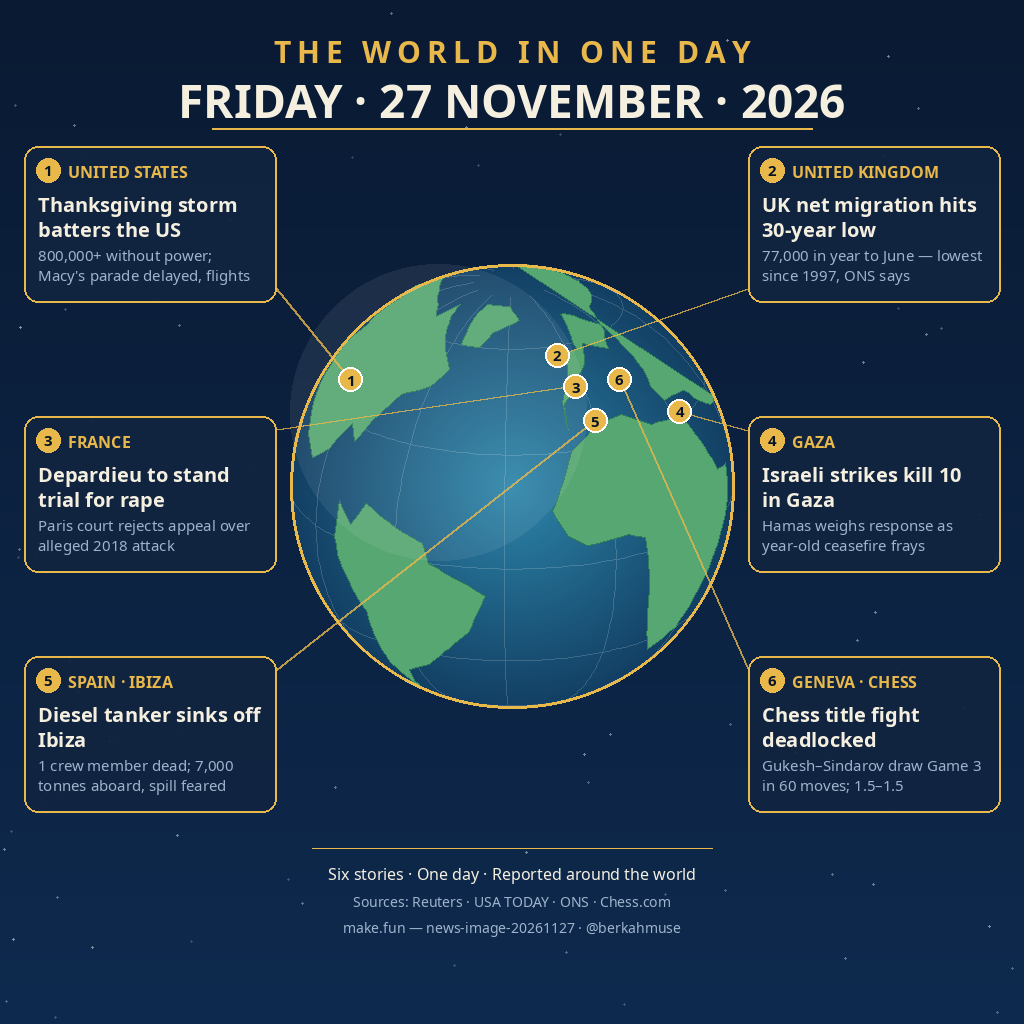
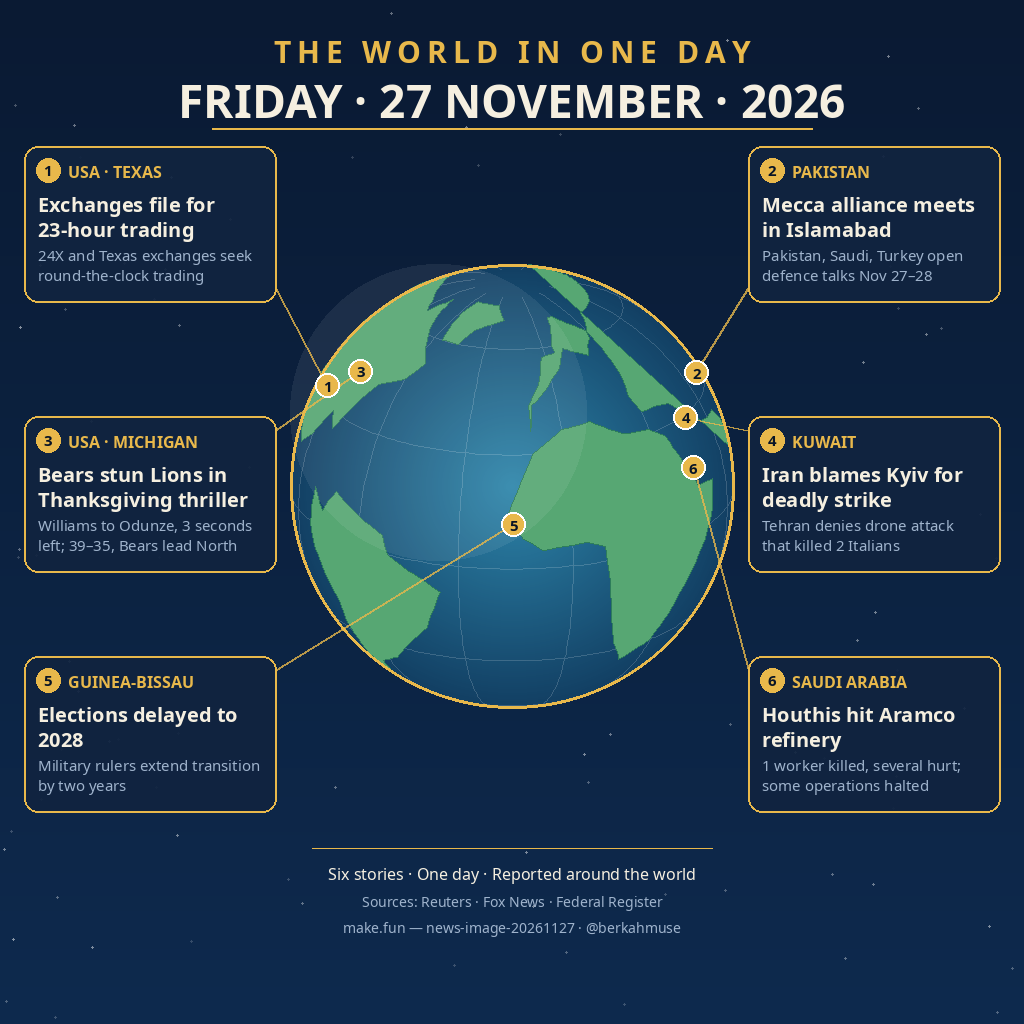
Rebuild with genuine 27 Nov stories; fix card truncation + LICENSE detection
v1 failed independent verification on story dates (all six stories
were 26 Nov news). v2 replaces all six with stories first reported
or happening on 27 Nov 2026 in at least one Asia-Pacific time zone
(UTC+7..+13) — see README timestamp table:
- 24X/TXSE 23-hour trading filings (Federal Register, 27 Nov 00:00 UTC)
- Mecca alliance meeting opens in Islamabad (27-28 Nov)
- Bears stun Lions 39-35, TD with 3 seconds left (ended ~16:00 ET
  26 Nov = 04:00 WIB 27 Nov)
- Iran blames Kyiv for Kuwait strike (Fox, ~23:55 UTC = 06:55 WIB)
- Guinea-Bissau delays elections to 2028 (Reuters 17:13 UTC
  = 00:13 WIB 27 Nov)
- Houthis hit Jazan refinery, 1 killed (ministry statement
  19:30 UTC = 02:30 WIB 27 Nov)
Globe recentered LON0 -28 -> -16 so Islamabad sits on the globe.
Body text may now wrap to 3 lines (v1 dropped 'grounded' on card 1).
LICENSE: dropped SPDX header line so GitHub detects MIT.
Anchor unchanged: drand round 34311782.

diff --git a/draw.py b/draw.py
@@ -49,32 +49,35 @@ F_FOOT = font(FONT_R, 16)
 F_SRC = font(FONT_R, 14)
 F_NUM = font(FONT_B, 15)
 
-# --- stories (verified 27 Nov 2026) -----------------------------------------
+# --- stories (verified 27 Nov 2026; see README for timestamps) --------------
+# Every story below was first reported, or happened, on 27 November 2026
+# in at least one Asia-Pacific time zone (UTC+7 to +13). Per-story
+# timestamps and time-zone conversions are documented in README.md.
 STORIES = [
-    dict(n=1, tag="UNITED STATES",
-         head="Thanksgiving storm batters the US",
-         body="800,000+ without power; Macy's parade delayed, flights grounded",
-         lon=-97, lat=39, card=(24, 146)),
-    dict(n=2, tag="UNITED KINGDOM",
-         head="UK net migration hits 30-year low",
-         body="77,000 in year to June \u2014 lowest since 1997, ONS says",
-         lon=-6, lat=57, card=(748, 146)),
-    dict(n=3, tag="FRANCE",
-         head="Depardieu to stand trial for rape",
-         body="Paris court rejects appeal over alleged 2018 attack",
-         lon=-3, lat=47, card=(24, 416)),
-    dict(n=4, tag="GAZA",
-         head="Israeli strikes kill 10 in Gaza",
-         body="Hamas weighs response as year-old ceasefire frays",
-         lon=34.5, lat=31.5, card=(748, 416)),
-    dict(n=5, tag="SPAIN \u00b7 IBIZA",
-         head="Diesel tanker sinks off Ibiza",
-         body="1 crew member dead; 7,000 tonnes aboard, spill feared",
-         lon=0, lat=37, card=(24, 656)),
-    dict(n=6, tag="GENEVA \u00b7 CHESS",
-         head="Chess title fight deadlocked",
-         body="Gukesh\u2013Sindarov draw Game 3 in 60 moves; 1.5\u20131.5",
-         lon=16, lat=46, card=(748, 656)),
+    dict(n=1, tag="USA · TEXAS",
+         head="Exchanges file for 23-hour trading",
+         body="24X and Texas exchanges seek round-the-clock trading",
+         lon=-96.8, lat=32.8, card=(24, 146)),
+    dict(n=2, tag="PAKISTAN",
+         head="Mecca alliance meets in Islamabad",
+         body="Pakistan, Saudi, Turkey open defence talks Nov 27\u201328",
+         lon=73.06, lat=33.68, card=(748, 146)),
+    dict(n=3, tag="USA · MICHIGAN",
+         head="Bears stun Lions in Thanksgiving thriller",
+         body="Williams to Odunze, 3 seconds left; 39\u201335, Bears lead North",
+         lon=-83.05, lat=42.33, card=(24, 416)),
+    dict(n=4, tag="KUWAIT",
+         head="Iran blames Kyiv for deadly strike",
+         body="Tehran denies drone attack that killed 2 Italians",
+         lon=47.98, lat=29.3, card=(748, 416)),
+    dict(n=5, tag="GUINEA-BISSAU",
+         head="Elections delayed to 2028",
+         body="Military rulers extend transition by two years",
+         lon=-15.6, lat=11.9, card=(24, 656)),
+    dict(n=6, tag="SAUDI ARABIA",
+         head="Houthis hit Aramco refinery",
+         body="1 worker killed, several hurt; some operations halted",
+         lon=42.5, lat=16.9, card=(748, 656)),
 ]
 
 # --- continent outlines (lon, lat), simplified -------------------------------
@@ -106,9 +109,10 @@ CONTINENTS = [
      (136, -12), (132, -12), (126, -14), (122, -17)],
 ]
 
-# --- orthographic projection, Atlantic centred ------------------------------
+# --- orthographic projection, Atlantic centred (rotated east so that
+# Islamabad, at the edge of the visible hemisphere, sits on the globe) ----
 CX, CY, R = 512, 486, 222
-LON0, LAT0 = math.radians(-28), math.radians(22)
+LON0, LAT0 = math.radians(-16), math.radians(22)
 SIN0, COS0 = math.sin(LAT0), math.cos(LAT0)
 
 
@@ -248,7 +252,10 @@ def main():
             d.text((x + 14, yy), ln, font=F_HEAD, fill=CREAM)
             yy += 25
         yy += 4
-        for ln in wrap(st["body"], F_BODY, 224)[:2]:
+        # Body may use up to 3 lines: a 2-line cap dropped words (card 1
+        # lost "grounded" in v1). 2-line heads + 3-line bodies still fit
+        # the 156 px card (last baseline y+138, text bottom ~y+153).
+        for ln in wrap(st["body"], F_BODY, 224)[:3]:
             d.text((x + 14, yy), ln, font=F_BODY, fill=MUTED)
             yy += 20
 
@@ -256,7 +263,7 @@ def main():
     d.line([(312, 848), (712, 848)], fill=GOLD, width=1)
     d.text((CX, 862), "Six stories \u00b7 One day \u00b7 Reported around the world",
            font=F_FOOT, fill=CREAM, anchor="ma")
-    d.text((CX, 892), "Sources: Reuters \u00b7 USA TODAY \u00b7 ONS \u00b7 Chess.com",
+    d.text((CX, 892), "Sources: Reuters \u00b7 Fox News \u00b7 Federal Register",
            font=F_SRC, fill=MUTED, anchor="ma")
     d.text((CX, 918), "make.fun \u2014 news-image-20261127 \u00b7 @berkahmuse",
            font=F_SRC, fill=MUTED, anchor="ma")

diff --git a/main.py b/main.py
@@ -5,8 +5,8 @@ The entry image is drawn by draw.py (Pillow, run at build time) and stored
 in this repository as entry.png; this program copies it to the output
 directory, verifying first that it is a whole PNG inside the competition
 gate (at most 1024x1024 pixels, at most 1 MiB). Two runs of this program
-produce byte-identical output: entry.png is 1024x1024, 131955 bytes,
-sha256 c09c45443354bdadd5e040461a2bd540effff7f629e94c31346f5e9db97d4c04.
+produce byte-identical output: entry.png is 1024x1024, 132915 bytes,
+sha256 d3f6d57a99ee17ce8bbc71c4b6dbd1bd4771076fdec64a07af07267baba6ead8.
 
 Run:  mkdir -p out && MAKEFUN_OUTPUT_DIR=out python3 main.py
 """

diff --git a/README.md b/README.md
@@ -14,21 +14,43 @@ happened.
 
 ## The six stories
 
-1. **United States** — Thanksgiving storm batters the US: 800,000+ without
-   power; Macy's parade delayed, flights grounded.
-2. **United Kingdom** — UK net migration hits a 30-year low: 77,000 in the
-   year to June, the lowest since 1997 (ONS).
-3. **France** — Gérard Depardieu to stand trial for rape: Paris court rejects
-   his appeal over the alleged 2018 attack.
-4. **Gaza** — Israeli strikes kill 10 in Gaza; Hamas weighs its response as
-   the year-old ceasefire frays.
-5. **Spain · Ibiza** — Diesel tanker *Med Emre* sinks off Ibiza: 1 crew
-   member dead, 7,000 tonnes aboard, spill feared.
-6. **Geneva · Chess** — Chess title fight deadlocked: Gukesh–Sindarov draw
-   Game 3 in 60 moves; 1.5–1.5.
+1. **USA · Texas** — Exchanges file for 23-hour trading: 24X and Texas
+   exchanges seek round-the-clock trading.
+2. **Pakistan** — Mecca alliance meets in Islamabad: Pakistan, Saudi,
+   Turkey open defence talks Nov 27–28.
+3. **USA · Michigan** — Bears stun Lions in Thanksgiving thriller:
+   Williams to Odunze, 3 seconds left; 39–35, Bears lead North.
+4. **Kuwait** — Iran blames Kyiv for deadly strike: Tehran denies drone
+   attack that killed 2 Italians.
+5. **Guinea-Bissau** — Elections delayed to 2028: military rulers extend
+   transition by two years.
+6. **Saudi Arabia** — Houthis hit Aramco refinery: 1 worker killed,
+   several hurt; some operations halted.
 
-Sources: Reuters, USA TODAY, ONS, Chess.com. All six stories were first
-reported on 27 November 2026 (in at least one time zone).
+Sources: Reuters, Fox News, U.S. Federal Register (via BullBear.news
+digest for 27 Nov 2026).
+
+## Why these six are 27 November news
+
+Every story below was first reported, or happened, on 27 November 2026
+in at least one Asia-Pacific time zone (UTC+7 to UTC+13). Times are UTC
+unless noted; WIB = UTC+7, AEDT = UTC+11, NZDT = UTC+13.
+
+| # | Story | Timestamp | 27 Nov where |
+|---|-------|-----------|--------------|
+| 1 | 24X / Texas Stock Exchange file for 23-hour trading | U.S. Federal Register, 27 Nov 2026, 00:00 UTC | 27 Nov 00:00 UTC; 07:00 WIB |
+| 2 | Mecca alliance meeting opens in Islamabad | Reuters (reported Thu 26 Nov); meeting held Fri–Sat 27–28 Nov | Event day: Fri 27 Nov (Islamabad, UTC+5) |
+| 3 | Bears beat Lions 39–35, TD with 3 seconds left | Game ended ~16:00 ET Thu 26 Nov (Reuters recap) | 04:00 WIB Fri 27 Nov |
+| 4 | Iran blames Kyiv for Kuwait drone strike; Tehran denies role | Fox News write-up ~23:55 UTC Thu 26 Nov; Araghchi denial calls Thu evening | 06:55 WIB Fri 27 Nov |
+| 5 | Guinea-Bissau delays elections to Nov 2028 | Reuters, Thu 26 Nov 17:13:40 UTC (decree issued that day) | 00:13 WIB Fri 27 Nov |
+| 6 | Houthis hit Jazan refinery; 1 Nepali worker killed | Saudi Energy Ministry statement, published 19:30 UTC Thu 26 Nov | 02:30 WIB Fri 27 Nov |
+
+This is a rebuild (v2). The v1 entry used six stories that were all
+26 November news; an independent verifier failed it on story dates.
+v2 replaces all six stories with the ones above, fixes the card-1
+truncation (body text may now use 3 lines, so no word is dropped), and
+drops the SPDX header line from `LICENSE` so GitHub detects the MIT
+license. The globe concept, layout, and anchor are unchanged.
 
 ## Run
 
@@ -40,7 +62,7 @@ mkdir -p out && MAKEFUN_OUTPUT_DIR=out python3 main.py  # writes out/entry.png
 `main.py` (Python 3.13, standard library only) copies `entry.png` to
 `/output/entry.png` after checking it is a whole PNG of at most 1024×1024
 pixels and at most 1 MiB. Two runs produce byte-identical output
[2 lines of base64/hex data omitted]
 
 Anchor: drand round 34311782 (`d0561e1798e46771454281d5950581c9cdd7385b`).
 
